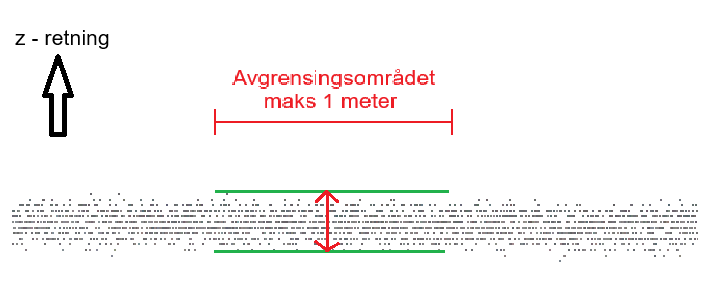
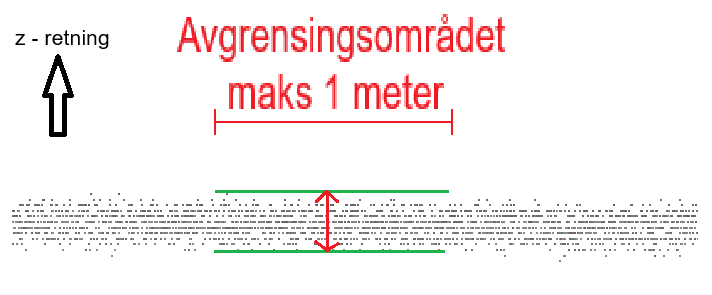
Revert "Merge branch 'Versjon-3.0' of https://github.com/kartverket/standard_pabg into Versjon-3.0"
This reverts commit 78aedb0eef51761d6d6b8f7b42913bdcb7825bf0, reversing
changes made to 5cfde550cfebe54ce044cfda6468216c1900ea20.

Changed region(s): [[0.2472, 0.0305, 0.7107, 0.2136], [0.309, 0.2441, 0.6489, 0.3661]]

diff --git a/index.html b/index.html
@@ -4,7 +4,7 @@
 <meta charset="utf-8">
 <meta http-equiv="X-UA-Compatible" content="IE=edge">
 <meta name="viewport" content="width=device-width, initial-scale=1.0">
-<meta name="generator" content="Asciidoctor 2.0.26">
+<meta name="generator" content="Asciidoctor 2.0.23">
 <title>Standard for geografisk informasjon: Produksjon av basis geodata 3.0 under revisjon</title>
 <link rel="stylesheet" href="https://fonts.googleapis.com/css?family=Open+Sans:300,300italic,400,400italic,600,600italic%7CNoto+Serif:400,400italic,700,700italic%7CDroid+Sans+Mono:400,700">
 <style>
@@ -116,6 +116,7 @@ h1 strong,h2 strong,h3 strong,#toctitle strong,.sidebarblock>.content>.title str
 :not(pre):not([class^=L])>code{font-size:.9375em;font-style:normal!important;letter-spacing:0;padding:.1em .5ex;word-spacing:-.15em;background:#f7f7f8;border-radius:4px;line-height:1.45;text-rendering:optimizeSpeed}
 pre{color:rgba(0,0,0,.9);font-family:"Droid Sans Mono","DejaVu Sans Mono",monospace;line-height:1.45;text-rendering:optimizeSpeed}
 pre code,pre pre{color:inherit;font-size:inherit;line-height:inherit}
+pre>code{display:block}
 pre.nowrap,pre.nowrap pre{white-space:pre;word-wrap:normal}
 em em{font-style:normal}
 strong strong{font-weight:400}
@@ -218,7 +219,6 @@ table.tableblock.fit-content>caption.title{white-space:nowrap;width:0}
 .literalblock pre,.listingblock>.content>pre:not(.highlight),.listingblock>.content>pre[class=highlight],.listingblock>.content>pre[class^="highlight "]{background:#f7f7f8}
 .literalblock.output pre{color:#f7f7f8;background:rgba(0,0,0,.9)}
 .listingblock>.content{position:relative}
-.listingblock pre>code{display:block}
 .listingblock code[data-lang]::before{display:none;content:attr(data-lang);position:absolute;font-size:.75em;top:.425rem;right:.5rem;line-height:1;text-transform:uppercase;color:inherit;opacity:.5}
 .listingblock:hover code[data-lang]::before{display:block}
 .listingblock.terminal pre .command::before{content:attr(data-prompt);padding-right:.5em;color:inherit;opacity:.5}
@@ -6868,9 +6868,7 @@ Klassifisering</p></td>
 <div class="sect2">
 <h3 id="_klassifisering">8.6. Klassifisering</h3>
 <div class="paragraph">
-<p>Klassifisering av punktsky er opsjonelt. Der produktets målsetting krever klassifisering, følges kravene til klassifisering gitt i <a href="#Bearbeiding av laserdata (klassifisering)
- ">[Bearbeiding av laserdata (klassifisering)
- ]</a>.</p>
+<p>Klassifisering av punktsky er opsjonelt. Der produktets målsetting krever klassifisering, følges kravene til klassifisering gitt i kap 7.4.</p>
 </div>
 </div>
 <div class="sect2">
@@ -6887,7 +6885,7 @@ Klassifisering</p></td>
 <div class="sect3">
 <h4 id="_stedfestingsnøyaktighet">8.8.1. Stedfestingsnøyaktighet</h4>
 <div class="paragraph">
-<p>Med stedfestingsnøyaktighet menes hvor godt stedfestingen til et objekt samsvarer med virkeligheten, realisert i angitt referanseramme. Metoden som brukes til å evaluere absolutt stedfestningsnøyaktighet følger standarden <a href="https://register.geonorge.no/standarder/sosi/standarder-geografisk-informasjon/geodatakvalitet">Geodatakvalitet</a>. Kravene gjelder for tydelige, veldefinerte objekter innenfor prosjektområdet. Kvalitetselement knyttet til kriteriet om stedfestingsnøyaktighet er angitt i    <a href="#tab-kvalitetselementer-knyttet-til-kategorien-stedfestingsnøyaktighet">Tabell 23</a> med beskrivelse.</p>
+<p>Med stedfestingsnøyaktighet menes hvor godt stedfestingen til et objekt samsvarer med virkeligheten, realisert i angitt referanseramme. Metoden som brukes til å evaluere absolutt stedfestningsnøyaktighet følger standarden <a href="https://register.geonorge.no/standarder/sosi/standarder-geografisk-informasjon/geodatakvalitet">Geodatakvalitet</a>. Kravene gjelder for tydelige, veldefinerte objekter innenfor prosjektområdet. Kvalitetselement knyttet til kriteriet om stedfestingsnøyaktighet er angitt i Tabell 7 med beskrivelse.</p>
 </div>
 <table id="tab-kvalitetselementer-knyttet-til-kategorien-stedfestingsnøyaktighet" class="tableblock frame-all grid-all stretch">
 <caption class="title">Tabell 23. Kvalitetselementer knyttet til kategorien stedfestingsnøyaktighet</caption>
@@ -6912,7 +6910,7 @@ Klassifisering</p></td>
 </div>
 <div class="imageblock text-center">
 <div class="content">
-<img src="figurer/Kap8_Absolutt%20stedfestingsnøyaktighet_Systematisk%20avvik4.png" alt="Rød pil viser en måling som kan inngå i beregningen av absolutt stedfestingsnøyaktighet" width="systematisk avvik." height="400">
+<img src="figurer/Kap8_Absolutt%20stedfestingsnøyaktighet_Systematisk%20avvik2.png" alt="Rød pil viser en måling som kan inngå i beregningen av absolutt stedfestingsnøyaktighet" width="systematisk avvik." height="400">
 </div>
 <div class="title">Figur 15. Rød pil viser en måling som kan inngå i beregningen av absolutt stedfestingsnøyaktighet, systematisk avvik.</div>
 </div>
@@ -6997,9 +6995,9 @@ Klassifisering</p></td>
 <tr>
 <td class="tableblock halign-left valign-top"><p class="tableblock">Absolutt stedfestingsnøyaktighet</p></td>
 <td class="tableblock halign-left valign-top"><p class="tableblock">Systematisk avvik</p></td>
-<td class="tableblock halign-center valign-top"><p class="tableblock">0 - 200</p></td>
-<td class="tableblock halign-center valign-top"><p class="tableblock">0 - 20</p></td>
-<td class="tableblock halign-center valign-top"><p class="tableblock">0 - 6</p></td>
+<td class="tableblock halign-center valign-top"><p class="tableblock">20 - 200</p></td>
+<td class="tableblock halign-center valign-top"><p class="tableblock">6 - 20</p></td>
+<td class="tableblock halign-center valign-top"><p class="tableblock">2 - 6</p></td>
 <td class="tableblock halign-center valign-top"><p class="tableblock">0 - 2</p></td>
 </tr>
 <tr>
@@ -7109,10 +7107,10 @@ Andre uavhengige datakilder kan benyttes dersom deres kvalitet er tilstrekkelig 
 <div class="sect3">
 <h4 id="_fullstendighet">8.8.2. Fullstendighet</h4>
 <div class="paragraph">
-<p>I kvalitetskategorien fullstendighet inngår elementene <em>dekning,</em> <em>punkttetthet</em>, <em>detaljeringsgrad</em>, <em>punktdistribusjon</em> og <em>overlapp foto</em>. Disse beskriver hvor komplett datasettet er, hvor tett punktene ligger, hvor detaljert informasjonen er, hvordan punktene fordeler seg i området og hvor mye fotodata overlapper hverandre. Kvalitetselementer knyttet til kriteriet om fullstendighet er angitt i tabell <a href="#tab-kvalitetselementer-knyttet-til-kriteriet-om-fullstendighet">Tabell 25</a> med beskrivelse.</p>
+<p>I kvalitetskategorien fullstendighet inngår elementene <em>dekning,</em> <em>punkttetthet</em>, <em>detaljeringsgrad</em>, <em>punktdistribusjon</em> og <em>overlapp foto</em>. Disse beskriver hvor komplett datasettet er, hvor tett punktene ligger, hvor detaljert informasjonen er, hvordan punktene fordeler seg i området og hvor mye fotodata overlapper hverandre. Kravene og definisjon følger standarden <a href="https://register.geonorge.no/standarder/sosi/standarder-geografisk-informasjon/geodatakvalitet">Geodatakvalitet kap x.x</a>. Kvalitetselementer knyttet til kriteriet om fullstendighet er angitt i Tabell 9 med beskrivelse.</p>
 </div>
 <table id="tab-kvalitetselementer-knyttet-til-kriteriet-om-fullstendighet" class="tableblock frame-all grid-all stretch">
-<caption class="title">Tabell 25. Kvalitetselementer knyttet til kriterier om fullstendighet</caption>
+<caption class="title">Tabell 25. Kvalitetselementer knyttet til kriterier om fullstendighetsnøyaktighet</caption>
 <colgroup>
 <col style="width: 50%;">
 <col style="width: 50%;">
@@ -7126,7 +7124,9 @@ Andre uavhengige datakilder kan benyttes dersom deres kvalitet er tilstrekkelig 
 <tbody>
 <tr>
 <td class="tableblock halign-left valign-top"><p class="tableblock">Dekning</p></td>
-<td class="tableblock halign-left valign-top"><p class="tableblock">Punktsky fra bilbåren laserskanning begrenser seg til å dekke omgivelser der sensoren har innsyn fra de kjørbare, harde flatene i prosjektet. Krav til dekning innenfor prosjektområdet må fremkomme av produktspesifikasjonen i det enkelte prosjektet. Eksempelvis dersom det er krav til full dekning innenfor hele prosjektområdet må dette fremkomme av kravspesifikasjonen, slik at eventuelle skyggepartier fra den bilbårne innsamlingen kan vurderes supplert med andre innsamlingsmetoder.</p></td>
+<td class="tableblock halign-left valign-top"><p class="tableblock">Punktsky fra bilbåren laserskanning begrenser seg til å dekke omgivelser der sensoren har innsyn fra de kjørbare, harde flatene i prosjektet. Krav til dekning innenfor prosjektområdet må fremkomme av produktspesifikasjonen i det enkelte prosjektet. Eksempelvis dersom det er krav til full dekning innenfor hele prosjektområdet må dette fremkomme av kravspesifikasjonen, slik at eventuelle skyggepartier fra den bilbårne innsamlingen kan vurderes supplert med andre innsamlingsmetoder.</p>
+<p class="tableblock">--- Benytter kvalitetsmål fra kap 7 - sjekke dette!!!
+---</p></td>
 </tr>
 <tr>
 <td class="tableblock halign-left valign-top"><p class="tableblock">Punkttetthet</p></td>
@@ -7147,9 +7147,9 @@ Andre uavhengige datakilder kan benyttes dersom deres kvalitet er tilstrekkelig 
 <h4 id="_egenskapskvalitet">8.8.3. Egenskapskvalitet</h4>
 <div class="paragraph">
 <p>I kategorien egenskapskvalitet inngår elementene <em>fotavtrykk</em>, <em>itensitet</em>, <em>farge</em>, <em>målemetode (fase/puls)</em> og <em>sensorID</em>.
-Disse elementene beskriver kvaliteten på ulike egenskaper ved datainnsamlingen, som fotavtrykkets størrelse <a href="#_laserskanner">Kapittel 7.1.1.1</a>, målt intensitet, eventuell fargeinformasjon, hvilken målemetode som er brukt, samt identifikasjonen til sensoren som har samlet inn dataene.
+Disse elementene beskriver kvaliteten på ulike egenskaper ved datainnsamlingen, som fotavtrykkets størrelse (se kap 7.x), målt intensitet, eventuell fargeinformasjon, hvilken målemetode som er brukt, samt identifikasjonen til sensoren som har samlet inn dataene.
 Med egenskapskvalitet i standarden <a href="https://register.geonorge.no/standarder/sosi/standarder-geografisk-informasjon/geodatakvalitet">Geodatakvalitet</a>, menes nøyaktighet av kvantitative egenskaper (kan måles på en skala) og riktighet av ikke-kvantitative egenskaper (egenskaper som skiller ut informasjon, men uten å kunne rangeres) og eventuelt objektenes klassifisering og relasjoner.
-Kvalitetselementer knyttet til kriteriet om egenskapskvalitet er angitt i <a href="#tab-kvalitetselementer-knyttet-til-kriterier-om-egenskapskvalitet">Tabell 26</a> med beskrivelse.</p>
+Kvalitetselementer knyttet til kriteriet om egenskapskvalitet er angitt i Tabell 10 med beskrivelse.</p>
 </div>
 <table id="tab-kvalitetselementer-knyttet-til-kriterier-om-egenskapskvalitet" class="tableblock frame-all grid-all stretch">
 <caption class="title">Tabell 26. Kvalitetselementer knyttet til kriterier om egenskapskvalitet</caption>
@@ -7752,7 +7752,7 @@ kan foretas umiddelbart. Materialet skal være tydelig merket med eierens navn.<
 <p>Bildeoppløsning (GSD) bestemmer hvilken kvalitet som kan forventes ved kartkonstruksjon (jamfør Produktspesifikasjon FKB), aerotriangulering, fremstilling av DTM eller ortofoto og så videre. Bildeoppløsningen må være god nok til at kartkonstruktøren kan identifisere alle objektene som skal konstrueres, og til at nøyaktigheten blir som forutsatt.</p>
 </div>
 <div class="paragraph">
-<p>På denne bakgrunn benyttes som oftest følgende GSD til de ulike FKB-standardene, se tabell <a href="#tab-FKB-GSD">Tabell 29</a>.</p>
+<p>På denne bakgrunn benyttes som oftest følgende GSD til de ulike FKB-standardene, se tabell <a href="#tab-FKB-GSD">Eksempler på sammenheng mellom FKB standard og GSD</a>.</p>
 </div>
 <table id="tab-FKB-GSD" class="tableblock frame-all grid-all stretch">
 <caption class="title">Tabell 29. Eksempler på sammenheng mellom FKB standard og GSD</caption>
@@ -7786,7 +7786,7 @@ kan foretas umiddelbart. Materialet skal være tydelig merket med eierens navn.<
 </tbody>
 </table>
 <div class="paragraph">
-<p>Tabell <a href="#tab-tolkning-flyhøyde">Tabell 30</a> gir informasjon om begrensninger i muligheten til å tolke bildene. Tabellen er basert på analog fotografering, tilsvarende tabell er ikke utarbeidet for fotografering med digitalt kamera. (Kilde: «Handbok till mätningskunngjörelse – Fotogrammetri»).</p>
+<p>Tabell <a href="#tab-tolkning-flyhøyde">Eksempler på vanskeligheter ved tolkning av objekter i bildene fra ulike flyhøyder</a> gir informasjon om begrensninger i muligheten til å tolke bildene. Tabellen er basert på analog fotografering, tilsvarende tabell er ikke utarbeidet for fotografering med digitalt kamera. (Kilde: «Handbok till mätningskunngjörelse – Fotogrammetri»).</p>
 </div>
 <table id="tab-tolkning-flyhøyde" class="tableblock frame-all grid-all stretch">
 <caption class="title">Tabell 30. Eksempler på vanskeligheter ved tolkning av objekter i bildene fra ulike flyhøyder</caption>
@@ -8007,7 +8007,7 @@ av denne lisensen og ikke kan viderebrukes</p>
 </div>
 <div id="footer">
 <div id="footer-text">
-Last updated 2026-02-17 08:10:54 +0100
+Last updated 2026-02-16 16:48:07 +0100
 </div>
 </div>
 <script type="text/x-mathjax-config">
@@ -8033,6 +8033,6 @@ MathJax.Hub.Register.StartupHook("AsciiMath Jax Ready", function () {
   })
 })
 </script>
-<script src="https://cdnjs.cloudflare.com/ajax/libs/mathjax/2.7.9/MathJax.js?config=TeX-MML-AM_CHTML"></script>
+<script src="https://cdnjs.cloudflare.com/ajax/libs/mathjax/2.7.9/MathJax.js?config=TeX-MML-AM_HTMLorMML"></script>
 </body>
 </html>
